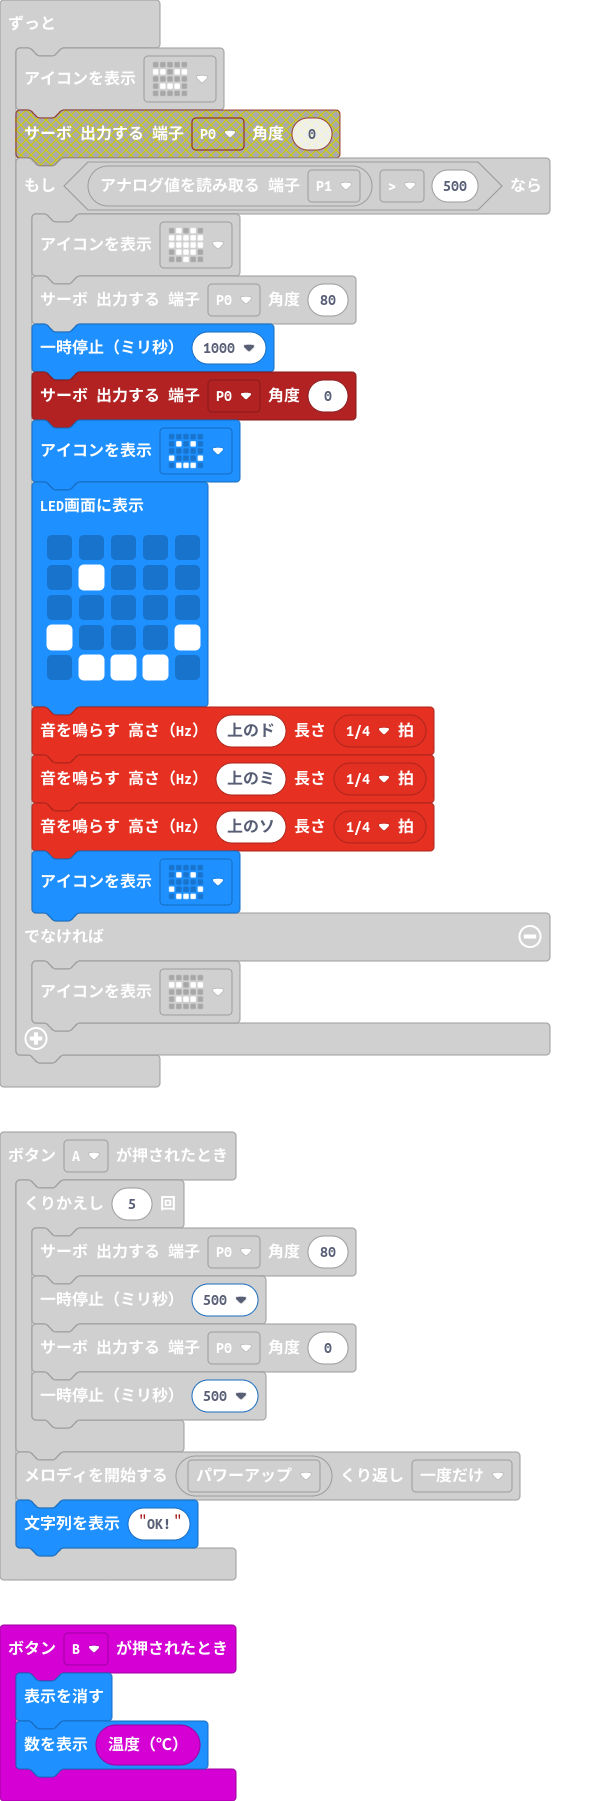
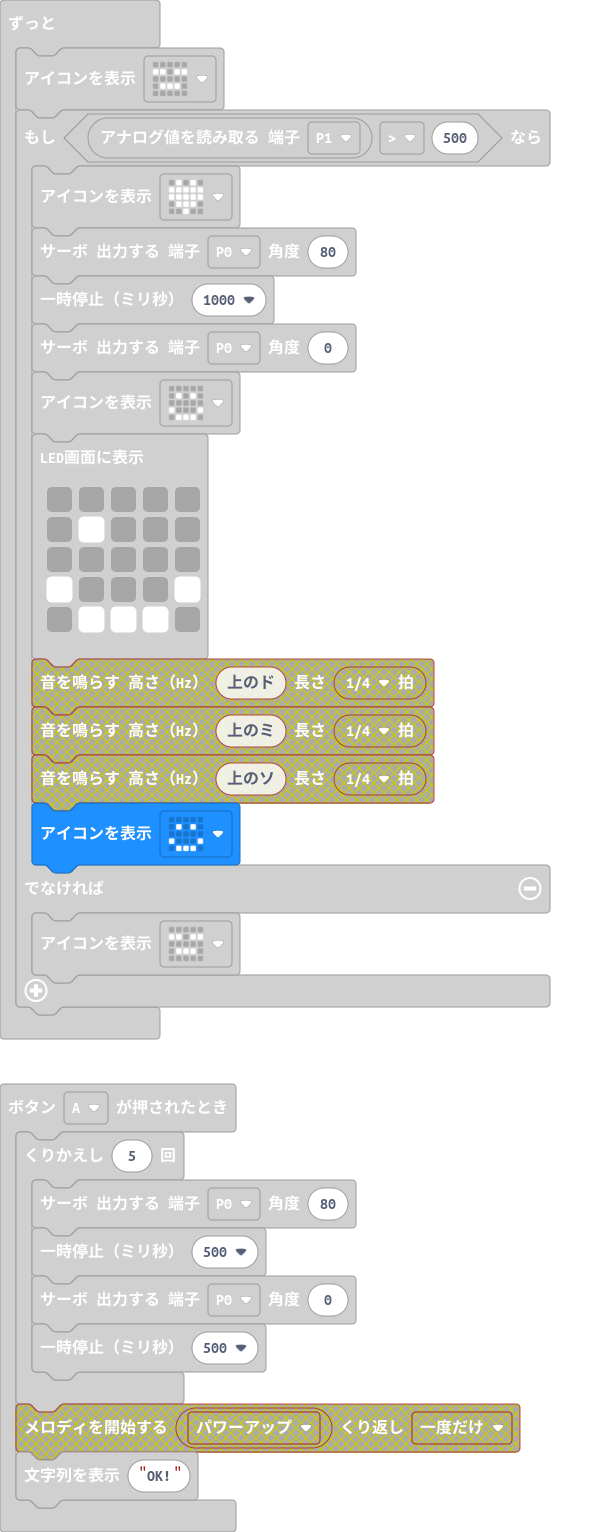
更新 main.blocks, main.ts

diff --git a/main.ts b/main.ts
@@ -5,7 +5,6 @@ input.onButtonPressed(Button.A, function () {
         pins.servoWritePin(AnalogPin.P0, 0)
         basic.pause(500)
     }
-    music.startMelody(music.builtInMelody(Melodies.PowerUp), MelodyOptions.Once)
     basic.showString("OK!")
 })
 input.onButtonPressed(Button.B, function () {
@@ -27,9 +26,6 @@ basic.forever(function () {
             # . . . #
             . # # # .
             `)
-        music.playTone(523, music.beat(BeatFraction.Quarter))
-        music.playTone(659, music.beat(BeatFraction.Quarter))
-        music.playTone(784, music.beat(BeatFraction.Quarter))
         basic.showIcon(IconNames.Happy)
     } else {
         basic.showIcon(IconNames.Asleep)
